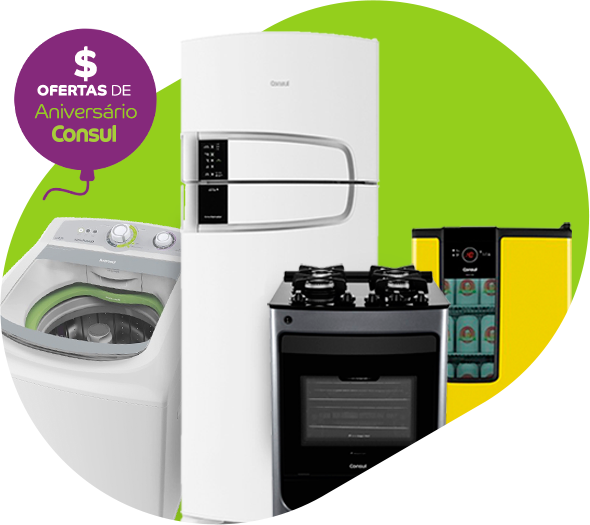
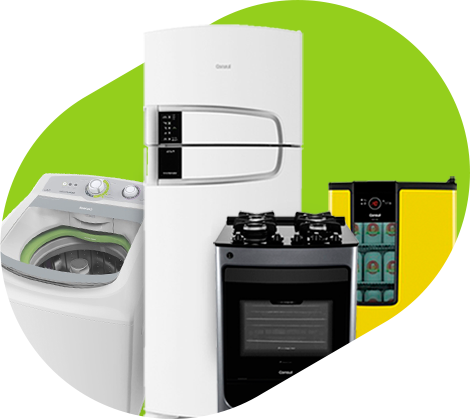
PLAT-3756 Landing Aniversário - Fase 3

diff --git a/src/pages/landing-aniversario-prorrogou/styles/consul-landing-aniversario-prorrogou.scss b/src/pages/landing-aniversario-prorrogou/styles/consul-landing-aniversario-prorrogou.scss
@@ -42,7 +42,7 @@ body {
    margin: 0!important;
    padding: 0;
 
-   @include breakpoint(extra-small, 'max') { padding: 60px 0 0 0 !important; }
+   @include breakpoint(extra-small, 'max') { padding: 0 !important; }
 }
 
 .header {
@@ -94,28 +94,11 @@ body {
 }
 
 #form-birthday {
-   background: #a4d13d;
-
    .row { margin-bottom: 0; }
 }
 
 .content {
-   background-color: $green;
-
-   .imageBirthday {
-      @include breakpoint(extra-small, 'max') {
-         transform: scale(1.2);
-      }
-   }
-
-   .formBirthday {
-      @include breakpoint(extra-small, 'max') {
-         img {
-            bottom: 320px;
-            position: relative;
-         }
-      }
-   }
+   color: $txt-gray;
 
    .imageBirthday,
    .formBirthday {
@@ -125,28 +108,31 @@ body {
       @include breakpoint(extra-small, 'max') { margin: 40px 0; }
    }
 
+   .imageBirthday {
+      text-align: right;
+
+      img { margin: 0 0 0 auto; }
+
+      @include breakpoint(extra-small, 'max') { transform: scale(1.2); }
+   }
+
+   .formBirthday {
+      .birthday {
+         @include breakpoint(extra-small, 'max') { margin-top: 30px; }
+      }
+   }
+
    .birthdayMobile {
       position: relative;
       top: 120px;
    }
 
-   .txtOfertas,
-   .txtBemPensado {
+   .txtOfertas {
       @include responsiveFont(25, 16, true);
-      color: #ffffff;
-      line-height: normal;
-      margin: 20px 0 0 0;
+      font-weight: normal;
+      margin: 30px 0 0 0;
 
       @include breakpoint(extra-small, 'max') { @include responsiveFont(17, 16, true); }
-   }
-
-   .txtOfertas {
-    @include breakpoint(extra-small, 'max') { margin-top: 60px; }
-   }
-
-   .txtBemPensado {
-      font-weight: normal;
-      margin: 0;
    }
 
    .registerForm {
@@ -163,6 +149,7 @@ body {
 
    input {
       @include responsiveFont(14, 16, true);
+      background: $gray;
       display: inline-block;
       outline: none;
       padding: 10px;
@@ -183,14 +170,17 @@ body {
          @include responsiveFont(24, 16, true);
          @include singleTransition();
          background: transparent;
-         border: 4px solid $gray-d;
-         color: $gray-d;
+         border: 4px solid #732d78;
+         color: #732d78;
          display: block;
          margin: 0 auto;
          padding: 8px 0;
          width: 185px;
 
-         &:hover { background: #ffffff; }
+         &:hover {
+            background: #732d78;
+            color: #ffffff;
+         }
       }
    }
 
@@ -253,7 +243,7 @@ body {
 }
 
 #contador {
-   background-color: #0192d1;
+   background-color: #732d78;
    padding: 40px 0;
 
    .row {
@@ -281,6 +271,21 @@ body {
 
          li.slick-active button { background: #ffffff; }
        }
+   }
+
+   .balao {
+      left: -15px;
+      position: absolute;
+      top: 40px;
+      z-index: 1;
+   }
+
+   .balao-right {
+      left: initial;
+      right: -50px;
+      top: -60px;
+
+      @include breakpoint(extra-small, 'max') { display: none; }
    }
 
    .ctas {
@@ -424,15 +429,6 @@ body {
             position: relative;
         }
       }
-   }
-
-   .balao {
-      left: -25px;
-      position: absolute;
-      top: -25px;
-      z-index: 1;
-
-      @include breakpoint(extra-small, 'max') { top: -15px; }
    }
 
    .produtos {

diff --git a/src/pages/landing-aniversario-prorrogou/index.html b/src/pages/landing-aniversario-prorrogou/index.html
@@ -31,15 +31,12 @@
 		<section id="form-birthday">
 			<div class="container">
 				<div class="row">
-					<div class="col-7 imageBirthday">
-						<img src="/arquivos/cns-landing-aniversario-prorrogou_birthday.gif" alt="" class="hide-extra-small" />
-						<img src="/arquivos/cns-landing-aniversario-prorrogou_birthday_mobile.png" alt="" class="birthdayMobile show-extra-small" />
-					</div>
 					<div class="col-5 formBirthday">
-						<img src="/arquivos/cns-landing-aniversario-prorrogou_birthday-text.png" alt="" />
-						<h1 class="txtOfertas">Ofertas para você comemorar<br />junto com a gente.</h1>
+						<img class="hide-small hide-extra-small" src="/arquivos/cns-landing-aniversario-prorrogou_birthday-text.gif" alt="" />
+						<img class="show-extra-small" src="/arquivos/cns-landing-aniversario-prorrogou_birthday-text.png" alt="" />
+						<img src="/arquivos/cns-landing-aniversario-prorrogou_birthday.png" alt="" class="birthday show-extra-small" />
+						<h1 class="txtOfertas"><strong>A melhor hora</strong> para <br/> aproveitar a festa é agora.</h1>
 						<div>
-							<h2 class="txtBemPensado">Isso sim é bem pensado</h2>
 							<h3 class="registerForm">Faça seu cadastro para receber todas as nossas ofertas.</h3>
 
 							<form action="/" method="POST" id="form-newsletter" data-msg-error="Não foi possivel enviar as informações, por favor tente novamente mais tarde." novalidate="novalidate">
@@ -56,6 +53,9 @@
 							<p class="success">Obrigado! Aproveite a festa ;)</p>
 						</div>
 					</div>
+					<div class="col-7 imageBirthday">
+						<img src="/arquivos/cns-landing-aniversario-prorrogou_birthday.png" alt="" class="hide-small hide-extra-small" />
+					</div>
 				</div>
 			</div>
 		</section>
@@ -64,7 +64,7 @@
 			<div class="container">
 				<div class="row">
 					<div class="wrapper">
-						<span class="text">A festa dura</span>
+						<span class="text">Faltam</span>
 
 						<div class="countdown">
 							<div class="countdown-days">
@@ -95,8 +95,8 @@
 					</div>
 					<p class="txt-cont">Entre e faça a festa em nossas ofertas bem pensadas ;)</p>
 					<div class="imgProdutos">
-						<div class="balao">
-							<img src="/arquivos/cns-landing-aniversario-prorrogou_balao.png" alt="" class="balao"/>
+						<div class="balao balao-left">
+							<img src="/arquivos/cns-landing-aniversario-prorrogou_balao-left.png" alt="" />
 						</div>
 
 						<div class="slider">
@@ -109,6 +109,10 @@
 							<div class="produtos">
 								<img src="/arquivos/cns-landing-aniversario-prorrogou_produto_3.jpg" alt="" />
 							</div>
+						</div>
+
+						<div class="balao balao-right">
+							<img src="/arquivos/cns-landing-aniversario-prorrogou_balao-right.png" alt="" />
 						</div>
 
 						<div class="cta">

diff --git a/src/pages/landing-aniversario-comecou/scripts/consul-landing-aniversario-comecou.min.js b/src/pages/landing-aniversario-comecou/scripts/consul-landing-aniversario-comecou.min.js
@@ -32,7 +32,7 @@ Nitro.setup(['consul-landing-aniversario'], function () {
 	};
 
 	this.countdown = function() {
-		var endDate = '2017/7/16',
+		var endDate = '2017/7/17',
 			$countdown = $('.countdown'),
 			$days = $countdown.find('.countdown-days .counter'),
 			$hours = $countdown.find('.countdown-hours .counter'),

diff --git a/src/pages/landing-aniversario-prorrogou/scripts/consul-landing-aniversario-prorrogou.min.js b/src/pages/landing-aniversario-prorrogou/scripts/consul-landing-aniversario-prorrogou.min.js
@@ -32,7 +32,7 @@ Nitro.setup(['consul-landing-aniversario'], function () {
 	};
 
 	this.countdown = function() {
-		var endDate = '2017/7/16',
+		var endDate = '2017/7/20',
 			$countdown = $('.countdown'),
 			$days = $countdown.find('.countdown-days .counter'),
 			$hours = $countdown.find('.countdown-hours .counter'),
